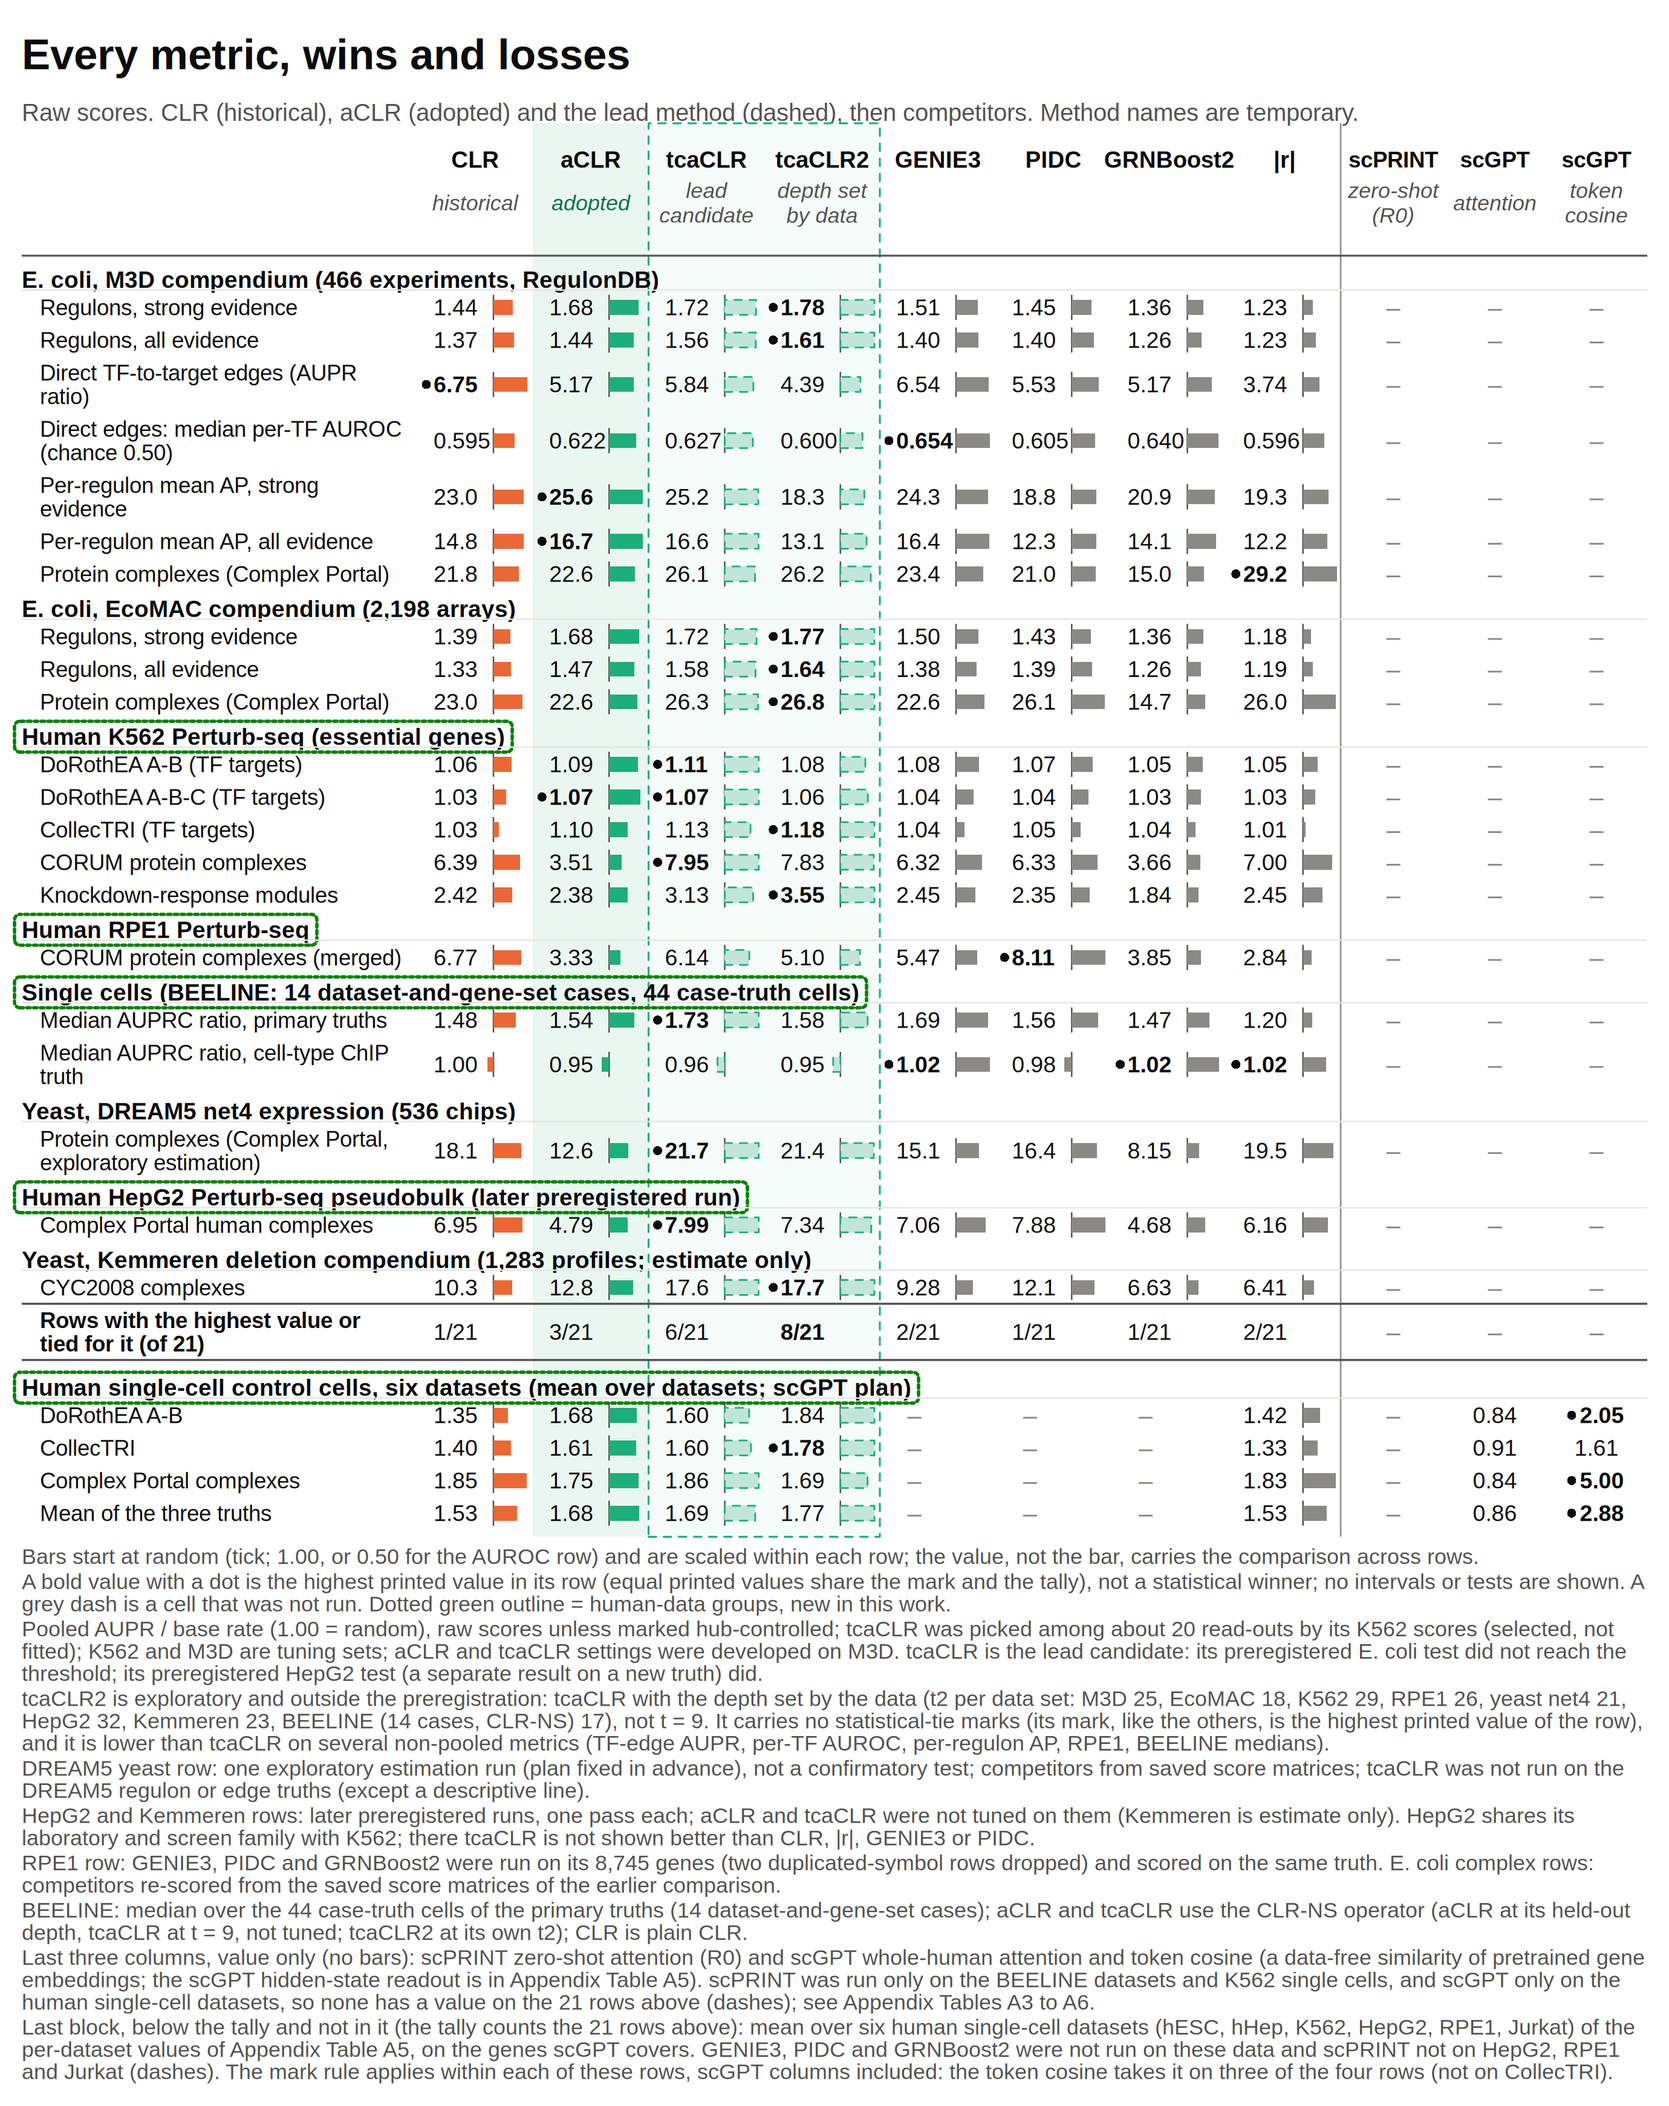
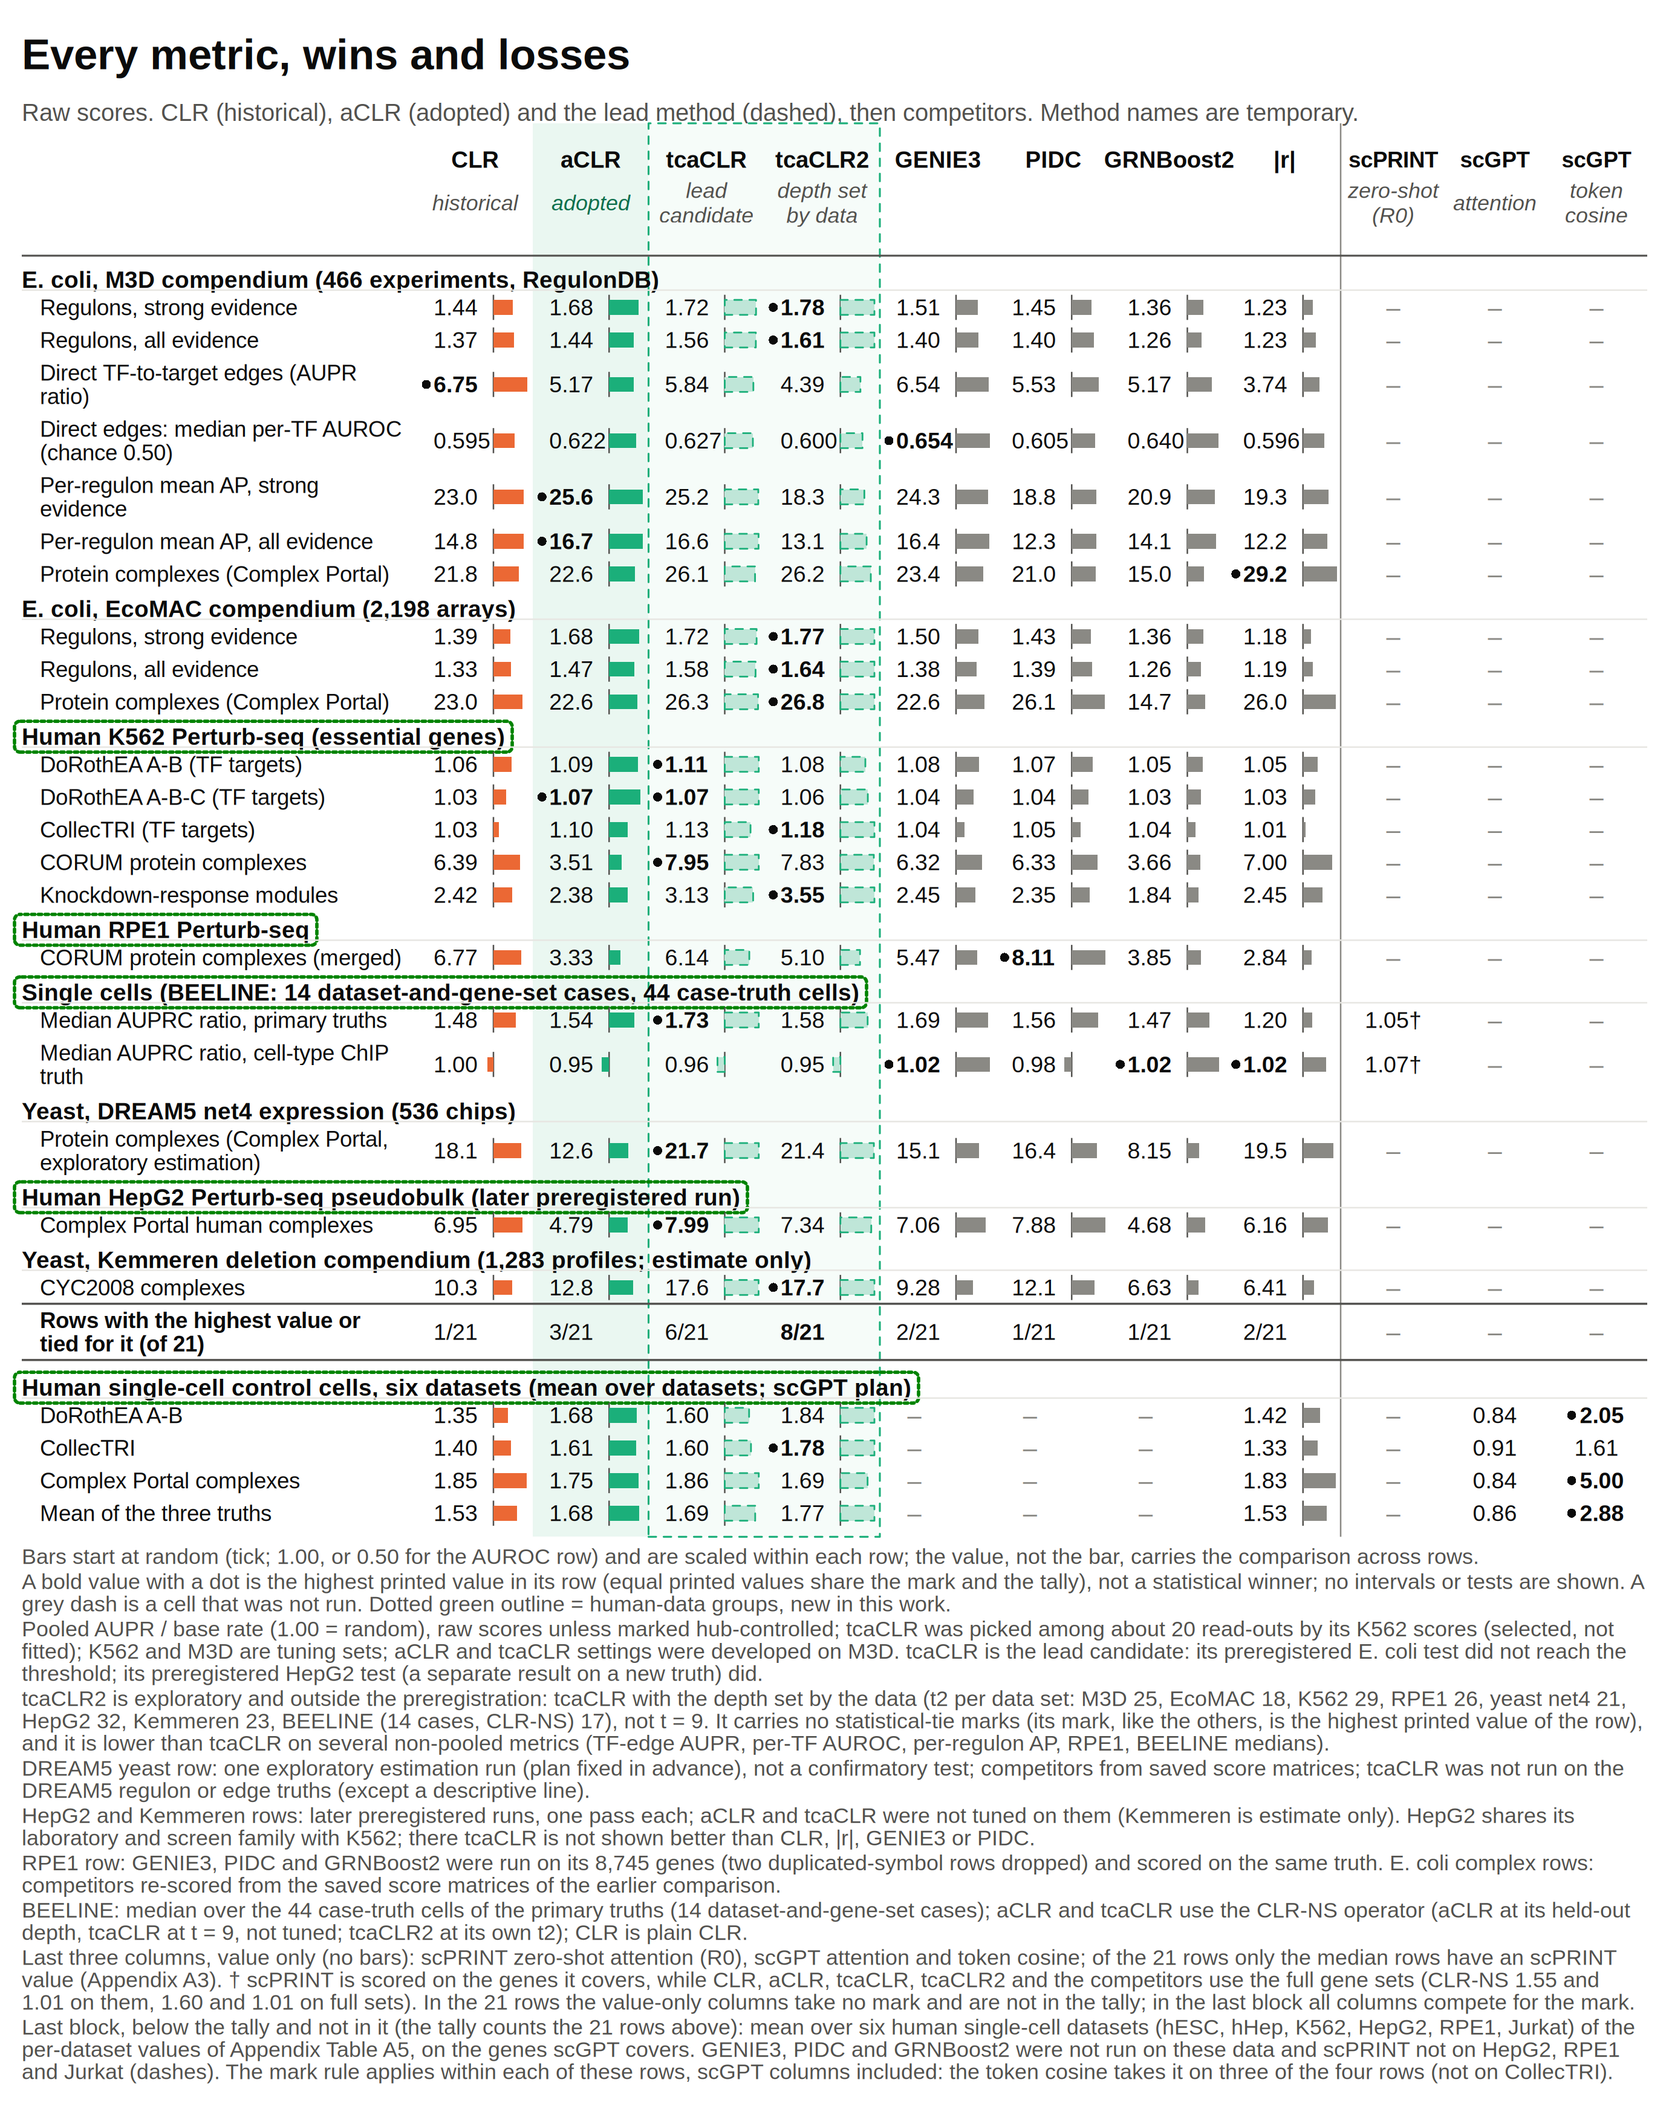
Figure 2: scPRINT medians in the BEELINE rows (dagger, covered genes); value-only columns take no mark in the 21 rows, so marks and tally agree (docx rebuild pending: file open in LibreOffice)

Changed region(s): [[0.0, 0.93, 0.9659, 0.961]]

diff --git a/docs/jim_short_preread_src/jim_short_preread.md b/docs/jim_short_preread_src/jim_short_preread.md
@@ -36,7 +36,7 @@ title: "Focus on what matters: summarizing attention in context likelihood of re
 
 *Figure 1 (continued).* Middle, the additions outlined in dotted green: each gene attends over its own top 50 positive CLR scores, a per-gene temperature sets about 10 effective partners, and each walk step follows the rows of the attention matrix; {{LEAD_NAME}} then adds the log of the walk and a second CLR. Right, pooled precision-recall area as a multiple of random; the dashed bars are {{LEAD_NAME}} (lead candidate) and {{LEAD_NAME}}2, which is exploratory and outside the preregistration: {{LEAD_NAME}} with the walk depth set by the data instead of t = 9.
 
-*Figure 2 (continued).* Every metric we have for CLR, {{ACLR_NAME}}, {{LEAD_NAME}}, {{LEAD_NAME}}2 and the competitors. Bars start at random and are scaled within each row. A marked (bold) value is the highest printed value in its row, not a statistical winner, and no intervals or tests are shown; equal printed values share the mark. The tally row counts, for each of the eight bar columns, the rows (of 21) where it has the highest printed value or ties it; every method of the first eight columns was run on every row of the 21. The three value-only columns on the right give scPRINT (zero-shot attention readout R0) and scGPT whole-human (attention and token-embedding cosine; the hidden-state readout is in Table A5): scPRINT was run only on the BEELINE datasets and K562 single cells and scGPT only on the human single-cell datasets, so they have no value on the 21 rows (dashes). The last block of four rows, below the tally, is the mean over six human single-cell datasets (hESC, hHep, K562, HepG2, RPE1, Jurkat) of the per-dataset values of Table A5, on the genes scGPT covers; GENIE3, PIDC and GRNBoost2 were not run on these data, and scPRINT was not run on HepG2, RPE1 and Jurkat. The block is outside the tally and outside every count in this note. The mark rule applies within its rows, scGPT columns included: scGPT's token cosine, a data-free similarity of pretrained gene embeddings, takes the mark on DoRothEA A-B (2.05), on complexes (5.00) and on the mean of the three truths (2.88), and {{LEAD_NAME}}2 on CollecTRI (1.78). Dotted green outlines mark the human-data groups. {{LEAD_NAME}} was picked among about 20 read-outs by its K562 scores, and K562 and M3D are tuning sets for it. The last two of the 21 rows (HepG2 and Kemmeren) come from later preregistered runs, on which {{ACLR_NAME}} and {{LEAD_NAME}} were not tuned; on HepG2, {{LEAD_NAME}} is not shown better than CLR, |r|, GENIE3 or PIDC (Appendix C), and the Kemmeren row is an estimate only. {{LEAD_NAME}}2 is exploratory and outside the preregistration: {{LEAD_NAME}} with the depth set by the data (t2 per data set in the figure), not t = 9. It carries no statistical-tie marks in the figure (Table A1 has them). With its column present it holds the highest printed value in 8 of the 21 rows, all of which {{LEAD_NAME}} would hold without it ({{LEAD_NAME}}: 6 rows with the column, 14 without), and it is lower than {{LEAD_NAME}} on several non-pooled metrics (TF-edge AUPR, per-TF AUROC, per-regulon AP, RPE1, BEELINE medians). The hub-controlled version of the earlier rows is Figure 3; the two new rows are not in it.
+*Figure 2 (continued).* Every metric we have for CLR, {{ACLR_NAME}}, {{LEAD_NAME}}, {{LEAD_NAME}}2 and the competitors. Bars start at random and are scaled within each row. A marked (bold) value is the highest printed value in its row, not a statistical winner, and no intervals or tests are shown; equal printed values share the mark. The tally row counts, for each of the eight bar columns, the rows (of 21) where it has the highest printed value or ties it; every method of the first eight columns was run on every row of the 21. The three value-only columns on the right give scPRINT (zero-shot attention readout R0) and scGPT whole-human (attention and token-embedding cosine; the hidden-state readout is in Table A5): scPRINT was run only on the BEELINE datasets and K562 single cells and scGPT only on the human single-cell datasets, so of the 21 rows only the two BEELINE median rows have a value in these columns (scPRINT: 1.05 and 1.07); the other cells are dashes. The two scPRINT cells are marked † because scPRINT is scored on the genes it covers, while CLR, {{ACLR_NAME}}, {{LEAD_NAME}}, {{LEAD_NAME}}2 and the competitors in these rows use the full gene sets (CLR-NS: 1.55 and 1.01 on the covered genes, 1.60 and 1.01 on the full sets). In these 21 rows the value-only columns take no mark and are not in the tally (marks and tally are decided over the eight bar columns); in the last block all columns compete for the mark. The last block of four rows, below the tally, is the mean over six human single-cell datasets (hESC, hHep, K562, HepG2, RPE1, Jurkat) of the per-dataset values of Table A5, on the genes scGPT covers; GENIE3, PIDC and GRNBoost2 were not run on these data, and scPRINT was not run on HepG2, RPE1 and Jurkat. The block is outside the tally and outside every count in this note. The mark rule applies within its rows, scGPT columns included: scGPT's token cosine, a data-free similarity of pretrained gene embeddings, takes the mark on DoRothEA A-B (2.05), on complexes (5.00) and on the mean of the three truths (2.88), and {{LEAD_NAME}}2 on CollecTRI (1.78). Dotted green outlines mark the human-data groups. {{LEAD_NAME}} was picked among about 20 read-outs by its K562 scores, and K562 and M3D are tuning sets for it. The last two of the 21 rows (HepG2 and Kemmeren) come from later preregistered runs, on which {{ACLR_NAME}} and {{LEAD_NAME}} were not tuned; on HepG2, {{LEAD_NAME}} is not shown better than CLR, |r|, GENIE3 or PIDC (Appendix C), and the Kemmeren row is an estimate only. {{LEAD_NAME}}2 is exploratory and outside the preregistration: {{LEAD_NAME}} with the depth set by the data (t2 per data set in the figure), not t = 9. It carries no statistical-tie marks in the figure (Table A1 has them). With its column present it holds the highest printed value in 8 of the 21 rows, all of which {{LEAD_NAME}} would hold without it ({{LEAD_NAME}}: 6 rows with the column, 14 without), and it is lower than {{LEAD_NAME}} on several non-pooled metrics (TF-edge AUPR, per-TF AUROC, per-regulon AP, RPE1, BEELINE medians). The hub-controlled version of the earlier rows is Figure 3; the two new rows are not in it.
 
 *Figure 3 (continued).* Hub control: the walk converges toward well-connected genes (hubs), so each method's scores are converted to percentiles within 10 strata of the attention walk's stationary distribution (the hub score of a gene pair, pi_i + pi_j), and methods are compared within strata. A method is therefore not rewarded merely for favouring hubs. Bars start at random and are scaled within each row, so compare the printed values across a row, not bar lengths across rows. A bold value with a dot is the highest printed value in its row (equal printed values share the mark), not a statistical winner; no intervals or tests are shown. Hub control was not run for direct edges, per-regulon AP and BEELINE; the DREAM5 yeast row is left out because its hub-controlled scores were stored with a different stratifier, and the HepG2 and Kemmeren rows were not hub-controlled. Dotted green outlines mark the human-data groups. {{LEAD_NAME}}2 is exploratory and outside the preregistration ({{LEAD_NAME}} with the walk depth set by the data, not t = 9); it carries no statistical-tie marks in the figure (Table A1 has them), and it takes the highest printed value in 9 of the 12 rows, tied with {{LEAD_NAME}} in three. It is above CLR in 11 of the 12 rows (RPE1 is the exception).
 
@@ -112,8 +112,8 @@ Counted from the bold marks of Table A1, {{LEAD_NAME}} is in the bold set in 3 o
 | Data and truth | CLR | CLR-NS | {{ACLR_NAME}} | {{LEAD_NAME}} | {{LEAD_NAME}}2 | scPRINT R0 | scPRINT fine-tuned |
 |:--|:--:|:--:|:--:|:--:|:--:|:--:|:--:|
 | **BEELINE, median over case-truth cells** | | | | | | | |
-| Primary truths (44 cells) | 1.48 | 1.60 | 1.54 | 1.73 | 1.58 | – | – |
-| Cell-type ChIP-seq (14 cells) | 1.00 | 1.01 | 0.95 | 0.96 | 0.95 | – | – |
+| Primary truths (44 cells) | 1.48 | 1.60 | 1.54 | 1.73 | 1.58 | 1.05† | – |
+| Cell-type ChIP-seq (14 cells) | 1.00 | 1.01 | 0.95 | 0.96 | 0.95 | 1.07† | – |
 | **BEELINE, mean over a dataset's cells (primary truths)** | | | | | | | |
 | hESC (6 cells) | 1.25 | 1.26 | 1.37† | 1.32† | 1.27† | 1.18 | 1.13 |
 | hHep (6 cells) | 1.40 | 1.44 | 1.26† | 1.49† | 1.42† | 0.98 | 0.98 |
@@ -127,7 +127,7 @@ Counted from the bold marks of Table A1, {{LEAD_NAME}} is in the bold set in 3 o
 | CollecTRI | 1.46 | 1.37 | – | – | – | 1.06 | – |
 | Knockdown-response modules | 1.00 | 1.12 | – | – | – | 1.02 | – |
 
-: Table A3. AUPR divided by the base rate (1.00 = random) of the CLR family and of scPRINT medium-v1.5. First block: medians over the case-truth cells of the BEELINE primary truths (14 dataset-and-gene-set cases), on the full gene sets, as in Figure 2. Second block: for each BEELINE dataset, the plain mean over its primary-truth cells (both gene sets), on the genes scPRINT covers, with CLR and CLR-NS on the same genes. Third block: K562 single cells (five subsamples of 1,024 control cells, scPRINT-covered genes); these are not the K562 pseudobulk rows of Table A1. CLR-NS is CLR on the absolute correlation of normal scores. scPRINT R0 is its zero-shot attention readout; fine-tuned is the same readout after self-supervised fine-tuning on the dataset's own cells (descriptive; run on BEELINE only). An en dash marks a cell with no value. † {{ACLR_NAME}}, {{LEAD_NAME}} and {{LEAD_NAME}}2 in the second block are the plain means over the same cells, but on the full gene sets (they were not rerun on the scPRINT-covered genes), so they are not on exactly the genes of the CLR, CLR-NS and scPRINT columns of the same row; on the full gene sets CLR-NS is 1.26, 1.43, 1.56, 1.59, 4.62, 7.52 and 13.55 in the dataset order shown (largest differences from the printed CLR-NS column: mESC and mHSC-L). For that reason Table A4 has no paired contrast of these three methods with scPRINT. They are exploratory in this comparison (outside the preregistered scPRINT contrasts). Remaining dashes: {{ACLR_NAME}}, {{LEAD_NAME}} and {{LEAD_NAME}}2 on K562 single cells have no value in this table, and neither does any scGPT level; Table A5 fills them (K562 and five further human datasets, on the genes scGPT covers, with complexes as a third truth in place of the knockdown-response modules), and Table A6 gives the contrasts of the six-dataset extension. scGPT's contrasts on hESC, hHep and K562 are in Table A4. scPRINT is dashed in the median rows because the record gives dataset means (second block), not medians. Fine-tuning was not run on K562. Method names are temporary.
+: Table A3. AUPR divided by the base rate (1.00 = random) of the CLR family and of scPRINT medium-v1.5. First block: medians over the case-truth cells of the BEELINE primary truths (14 dataset-and-gene-set cases), on the full gene sets, as in Figure 2, except the two scPRINT R0 cells (†), which are on the genes scPRINT covers (CLR-NS there: 1.55 and 1.01). Second block: for each BEELINE dataset, the plain mean over its primary-truth cells (both gene sets), on the genes scPRINT covers, with CLR and CLR-NS on the same genes. Third block: K562 single cells (five subsamples of 1,024 control cells, scPRINT-covered genes); these are not the K562 pseudobulk rows of Table A1. CLR-NS is CLR on the absolute correlation of normal scores. scPRINT R0 is its zero-shot attention readout; fine-tuned is the same readout after self-supervised fine-tuning on the dataset's own cells (descriptive; run on BEELINE only). An en dash marks a cell with no value. † {{ACLR_NAME}}, {{LEAD_NAME}} and {{LEAD_NAME}}2 in the second block are the plain means over the same cells, but on the full gene sets (they were not rerun on the scPRINT-covered genes), so they are not on exactly the genes of the CLR, CLR-NS and scPRINT columns of the same row; on the full gene sets CLR-NS is 1.26, 1.43, 1.56, 1.59, 4.62, 7.52 and 13.55 in the dataset order shown (largest differences from the printed CLR-NS column: mESC and mHSC-L). For that reason Table A4 has no paired contrast of these three methods with scPRINT. They are exploratory in this comparison (outside the preregistered scPRINT contrasts). Remaining dashes: {{ACLR_NAME}}, {{LEAD_NAME}} and {{LEAD_NAME}}2 on K562 single cells have no value in this table, and neither does any scGPT level; Table A5 fills them (K562 and five further human datasets, on the genes scGPT covers, with complexes as a third truth in place of the knockdown-response modules), and Table A6 gives the contrasts of the six-dataset extension. scGPT's contrasts on hESC, hHep and K562 are in Table A4. Fine-tuned scPRINT is dashed in the median rows (not computed). Fine-tuning was not run on K562. Method names are temporary.
 
 {{PAGEBREAK}}
 
